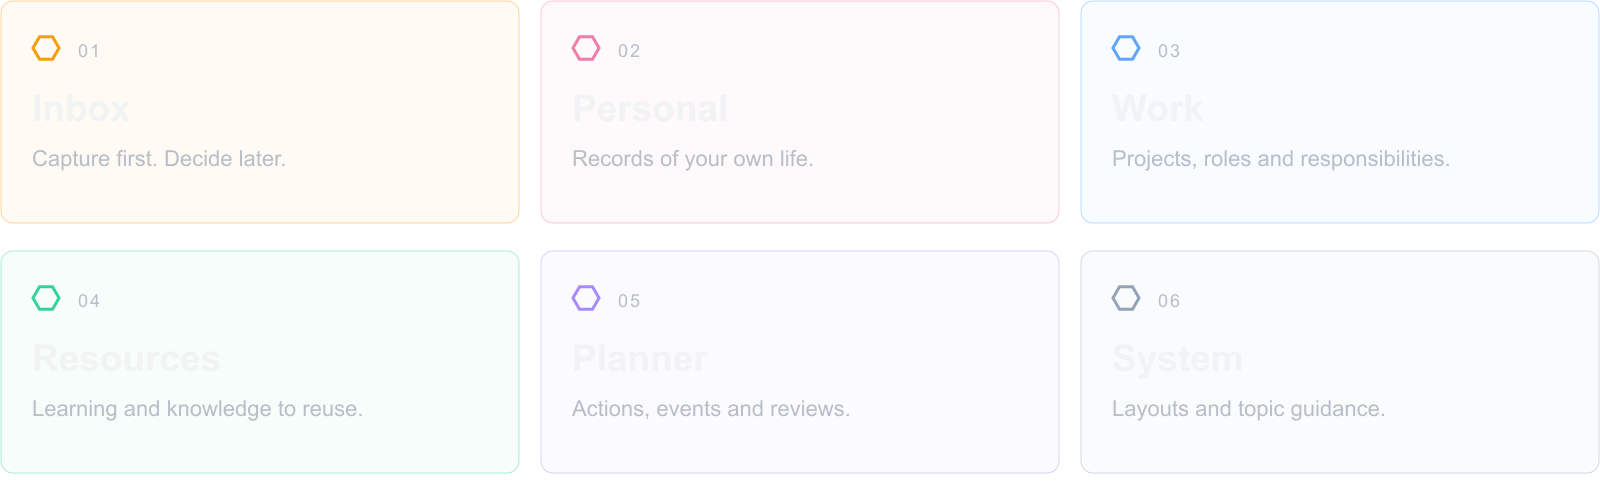
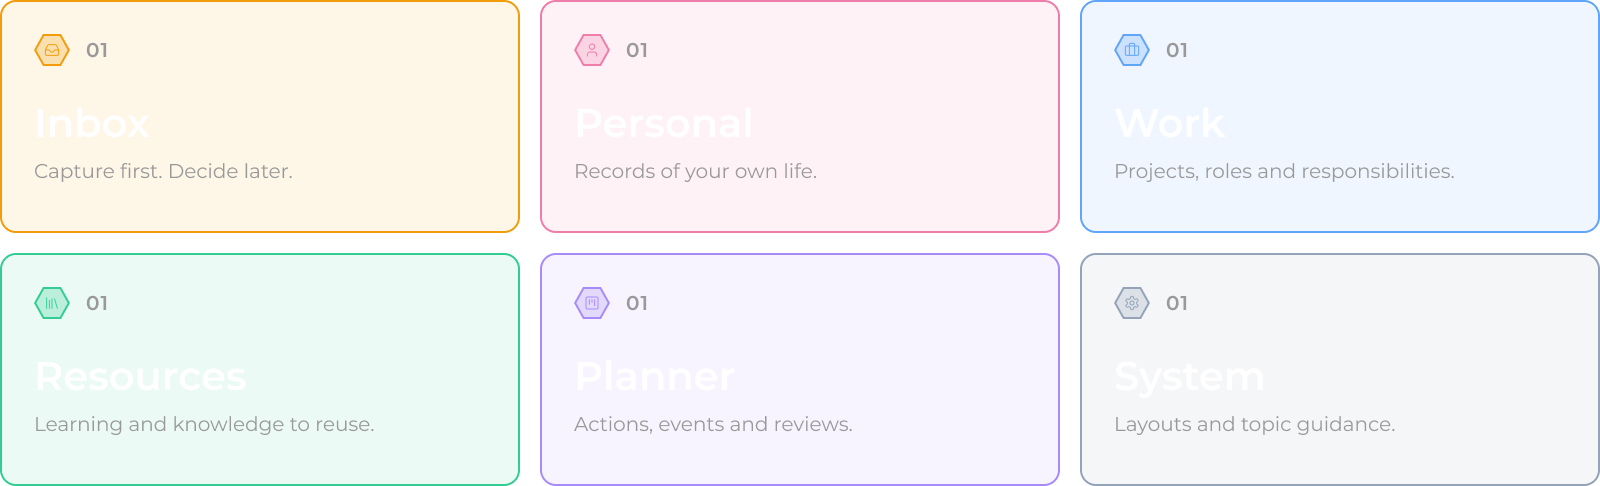
fix: release Second Brain v1.1.1 artwork

diff --git a/.github/RELEASE.md b/.github/RELEASE.md
@@ -1,58 +1,28 @@
 ![Second Brain by Hence — light mode](../system/assets/second-brain-cover.png#gh-light-mode-only)
 ![Second Brain by Hence — dark mode](../system/assets/second-brain-cover-dark.png#gh-dark-mode-only)
 
-# Your life, thoughtfully organized.
+# Second Brain v1.1.1
 
-**Second Brain v1.1.0.** A personal Obsidian vault for life records, reusable knowledge, projects and everyday planning.
+Updated presentation artwork designed by David in Figma: transparent banners and six-area maps for light and dark mode. The banners now include “A PERSONAL OBSIDIAN VAULT”. Superseded banner and map SVGs have been removed.
 
-**[Download](https://github.com/henceenterprise/second-brain/releases/latest)** · **[Quick start](../README.md#quick-start)** · **[Support](https://github.com/henceenterprise/second-brain/issues)**
-
-## A clearer place to start
-
-- Transparent Hence identity for light and dark mode.
-- A six-area map, concise guidance in the collection indices and clearer layout instructions.
-- Optional editorial styling and presentation controls in **Style Settings → Second Brain**, including separate area colors by theme.
-- A real clean-vault overview, matching social preview and editable SVGs.
-
-![Clean Windows vault: folders, Planner, Calendar, Kanban and Graph.](../system/assets/second-brain-overview.png)
-
-## Packages
+## Downloads
 
 | Asset | Use |
 | --- | --- |
-| **Second-Brain-v1.1.0.zip** | Extract the vault, including hidden `.obsidian` settings. |
-| **Second-Brain-v1.1.0-sources.zip** | Corresponding sources, licenses, provenance and build guidance. |
-| **SHA256SUMS.txt** | Compare package checksums before use. |
+| **Second-Brain-v1.1.1.zip** | Extract the complete vault, including hidden `.obsidian` settings. |
+| **Second-Brain-v1.1.1-sources.zip** | Corresponding plugin sources, licenses, provenance and build guidance, with the updated template. |
+| **SHA256SUMS.txt** | Verify both package checksums. |
 
-Download the vault ZIP below. The sources ZIP contains redistribution and maintenance material. Published v1.0.0 assets remain available.
+[Quick start](../README.md#quick-start) · [Selective updates](UPDATING.md) · [Changelog](CHANGELOG.md)
 
-## Make it yours
+## Updating from v1.1.0
 
-The optional interface layer adds black/white surfaces and a green accent. In **Style Settings**, adjust each mode's colors, advanced sizes, spacing and corners, or reset them. One **Second Brain** panel groups **Interface** and **Documents**; use native Appearance for scheme, theme and font choices. Disable the interface CSS snippet before using another community theme.
+Replace the four banner/map PNGs in `system/assets/`. This release also updates asset documentation and removes the superseded SVGs from repository maintenance. Code, plugins, layouts and Obsidian configuration remain unchanged.
 
-## What stays familiar
+Back up your vault before applying changes. Previous releases remain available.
 
-Six areas · four layouts · 24 optional topic tags · Bases lists · ISO journals · Kanban · Tasks · drawings · colored Graph.
+## Validation and limits
 
-- Helpers and the six existing community plugins keep their code and versions.
-- Style Settings **1.0.9** is added with its GPL-3.0 license and corresponding source material.
-- Query code, layout logic, properties, tool destinations, specific icons and Graph area colors are preserved.
-- Excalidraw drawings and previews follow Obsidian's light/dark mode.
+The new artwork was inspected on white and black backgrounds. Package integrity, template contents and structural links were checked. Native Obsidian tests were not repeated for this artwork-only update; macOS and Linux remain unvalidated.
 
-## Compatibility and care
-
-| Platform | Status |
-| --- | --- |
-| Windows desktop / Obsidian 1.14.4 | Core and presentation validated. |
-| macOS / Linux | Not validated. |
-| Mobile | Outside Helpers v1 support. |
-
-Minimum declared Obsidian version: 1.13.0; not every version tested. Update Obsidian and community plugins normally. Helpers checks required interfaces rather than exact versions; a failure pauses only the affected convenience.
-
-**Back up before updating.** Follow [selective updates](UPDATING.md) to preserve personal notes and choices. Canceling a card does not cancel its checkboxes. Session Undo and conservative task deletion are explained in the vault.
-
-No sync, automatic backup or AI is included. Helpers is optional bundled code, separate from the community catalogue. Maintenance has no guaranteed schedule.
-
-Created by **Hence** · [MIT](../LICENSE.md) for template and Helpers · [Plugin licenses and sources](THIRD-PARTY-NOTICES.md).
-
-[Support](https://github.com/henceenterprise/second-brain/issues) · [Private security guidance](SECURITY.md) · [Maintenance](MAINTENANCE.md).
+Created by **Hence** · [Template license](../LICENSE.md) · [Plugin licenses and sources](THIRD-PARTY-NOTICES.md) · [Support](https://github.com/henceenterprise/second-brain/issues).

diff --git a/.github/MAINTENANCE.md b/.github/MAINTENANCE.md
@@ -16,8 +16,8 @@ These documents support maintenance of the public template source. For personal 
 
 Original build inputs: [white Hence logo](artwork/hence-horizontal-principal.png) · [black Hence logo](artwork/hence-horizontal-reverso.png). Editable SVGs and originals are kept here; the vault asset collection contains five display PNGs.
 
-- Transparent banners: [light PNG](../system/assets/second-brain-cover.png) · [light SVG](artwork/second-brain-cover.svg) · [dark PNG](../system/assets/second-brain-cover-dark.png) · [dark SVG](artwork/second-brain-cover-dark.svg)
-- Six-area maps: [light PNG](../system/assets/second-brain-map.png) · [light SVG](artwork/second-brain-map.svg) · [dark PNG](../system/assets/second-brain-map-dark.png) · [dark SVG](artwork/second-brain-map-dark.svg)
+- Current transparent banners: [light PNG](../system/assets/second-brain-cover.png) · [dark PNG](../system/assets/second-brain-cover-dark.png). Designed and exported by David from Figma; adopted locally on 2026-10-11.
+- Six-area maps: [light PNG](../system/assets/second-brain-map.png) · [dark PNG](../system/assets/second-brain-map-dark.png). Both maps were designed and exported by David from Figma and adopted locally on 2026-10-11. Superseded banner and map SVGs were removed at David's request; their history remains in Git.
 - [Optional native-theme interface](../.obsidian/snippets/hence-interface.css) — black/white, green accent and independent light/dark colors, advanced sizes, spacing and corners. Built for the native theme; disable this snippet before switching to another community theme. It works with defaults without Style Settings.
 - [Optional presentation CSS](../.obsidian/snippets/second-brain-presentation.css) — scoped guidance, theme-aware images and the single **Second Brain** Style Settings panel.
 - [Clean Windows overview](../system/assets/second-brain-overview.png) — the currently open template, without personal notes or a cursor.

diff --git a/.github/CHANGELOG.md b/.github/CHANGELOG.md
@@ -1,5 +1,12 @@
 # Changelog
 
+## 1.1.1 — 2026-10-11
+
+- New Figma artwork by David: transparent light/dark banners and six-area maps.
+- Banners include A PERSONAL OBSIDIAN VAULT; updated asset documentation.
+- Removed four superseded banner/map SVGs.
+- Code, plugins, layouts and Obsidian configuration unchanged from v1.1.0.
+
 ## 1.1.0 — 2026-10-08
 
 - Transparent light/dark Hence identity, six-area map, real vault overview and matching social preview.

diff --git a/system/assets/ASSETS.md b/system/assets/ASSETS.md
@@ -20,6 +20,8 @@ Images used by the vault guide. Light and dark variants follow your chosen mode.
 
 Editable artwork and original brand inputs stay in repository maintenance, outside the personal note tree.
 
+The current banners (1600 × 464) and both area maps (1600 × 486) were designed by David in Figma and exported as transparent PNGs. Superseded banner and map SVGs were removed; their history remains in Git.
+
 ## Files and collections
 
 ```base
